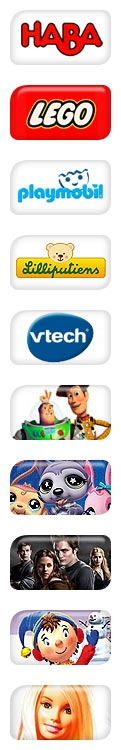
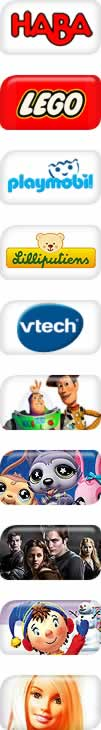
optimisation d'image, encore un peu mieux

diff --git a/content.html b/content.html
@@ -37,43 +37,43 @@
 	<ul>
 		<li >
 			<a class="heros_desc" href="http://www4.fnac.com/s123476/Haba?bl=HGENFban3">
-				<b style="background-position: -10px -10px;"></b>Haba</a>
+				<b style="background-position: 0 0;"></b>Haba</a>
 		</li>
 		<li >
 			<a class="heros_desc" href="http://www4.fnac.com/s119817/Jouets-pour-enfant/Jeux-de-construction/Lego?bl=HGENFban3">
-				<b style="background-position: -10px -85px;"></b>Lego</a>
+				<b style="background-position: 0 -75px;"></b>Lego</a>
 		</li>
 		<li >
 			<a class="heros_desc" href="http://www4.fnac.com/s130378/Notre-univers-Playmobil?bl=HGENFban3">
-				<b style="background-position: -10px -160px;"></b>Playmobil</a>
+				<b style="background-position: 0 -150px;"></b>Playmobil</a>
 		</li>
 		<li >
 			<a class="heros_desc" href="http://www4.fnac.com/s143068/Poupees-et-peluches/Lilliputiens?bl=HGENFban3">
-				<b style="background-position: -10px -235px;"></b>Lilliputiens</a>
+				<b style="background-position: 0 -225px;"></b>Lilliputiens</a>
 		</li>
 		<li class="last">
 			<a class="heros_desc" href="http://www4.fnac.com/s135708/Vtech?bl=HGENFban3">
-				<b style="background-position: -10px -310px;"></b>Vtech</a>
+				<b style="background-position: 0 -300px;"></b>Vtech</a>
 		</li>
 		<li >
 			<a class="heros_desc" href="http://www4.fnac.com/s129715/Tous-vos-heros-favoris/Toy-Story?bl=HGENFban3">
-				<b style="background-position: -10px -385px;"></b>Toy Story</a>
+				<b style="background-position: 0 -375px;"></b>Toy Story</a>
 		</li>
 		<li >
 			<a class="heros_desc" href="http://www4.fnac.com/s129707/Tous-vos-heros-favoris/Littlest-Pet-Shop?bl=HGENFban3">
-				<b style="background-position: -10px -460px;"></b>Littlest Petshop</a>
+				<b style="background-position: 0 -450px;"></b>Littlest Petshop</a>
 		</li>
 		<li >
 			<a class="heros_desc" href="http://www4.fnac.com/s132620/Tous-vos-heros-favoris/Twilight?bl=HGENFban3">
-				<b style="background-position: -10px -535px;"></b>Twilight</a>
+				<b style="background-position: 0 -525px;"></b>Twilight</a>
 		</li>
 		<li >
 			<a class="heros_desc" href="http://www4.fnac.com/s129831/Tous-vos-heros-favoris/Oui-Oui?bl=HGENFban3">
-				<b style="background-position: -10px -610px;"></b>Oui-Oui</a>
+				<b style="background-position: 0 -600px;"></b>Oui-Oui</a>
 		</li>
 		<li class="last">
 			<a class="heros_desc" href="http://www4.fnac.com/s129822/Tous-vos-heros-favoris/Barbie?bl=HGENFban3">
-				<b style="background-position: -10px -685px;"></b>Barbie</a>
+				<b style="background-position: 0 -675px;"></b>Barbie</a>
 		</li>
 	</ul>
 	<div class="clearing"></div>
